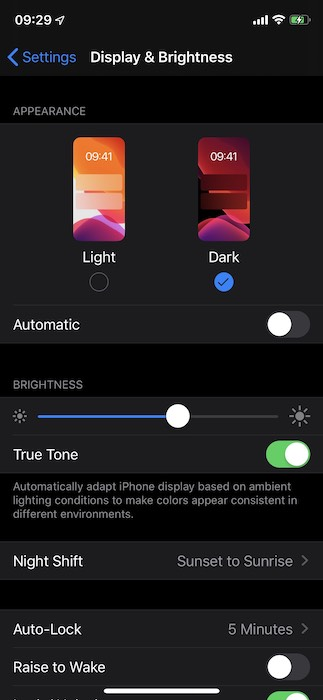
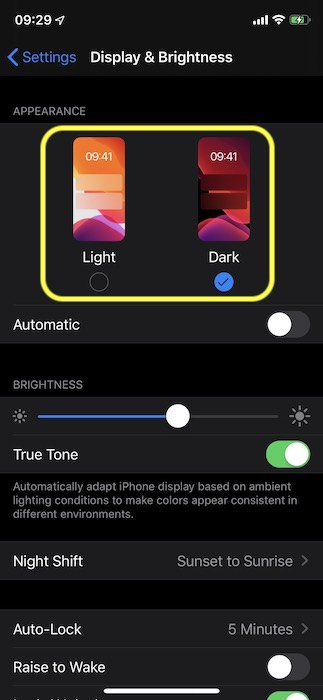
Add more best practice

Changed region(s): [[0.1238, 0.18, 0.8669, 0.45]]

diff --git a/src/site/content/en/blog/prefers-color-scheme/index.md b/src/site/content/en/blog/prefers-color-scheme/index.md
@@ -50,11 +50,12 @@ the idea of making the virtual document resemble a physical sheet of paper becam
 This is where *dark-on-white* as a design trend started,
 and this trend was carried over to the
 [early document-based web](http://info.cern.ch/hypertext/WWW/TheProject.html)
-and was also the way the first browser, [WorldWideWeb](https://en.wikipedia.org/wiki/WorldWideWeb)
+and was also the way the first ever browser,
+[WorldWideWeb](https://en.wikipedia.org/wiki/WorldWideWeb)
 (remember,
 [CSS wasn't even invented](https://en.wikipedia.org/wiki/Cascading_Style_Sheets#History) yet),
 [displayed webpages](https://commons.wikimedia.org/wiki/File:WorldWideWeb_FSF_GNU.png).
-Fun fact: the second ever browser, the
+Fun fact: the second ever browser,
 [Line Mode Browser](https://en.wikipedia.org/wiki/Line_Mode_Browser)—as a terminal-based browser—was
 green on dark.
 To the present day, web pages and web apps are typically designed with dark text
@@ -81,6 +82,8 @@ more the idea of going back to the roots of *light-on-dark* becomes popular.
 
 ## Why dark mode
 
+### Aesthetics
+
 When people get asked
 [why they like or want dark mode](https://medium.com/dev-channel/let-there-be-darkness-maybe-9facd9c3023d),
 the most popular response is that *"it's easier on the eyes,"*
@@ -91,7 +94,7 @@ explicitly write: *"The choice of whether to enable a light or dark appearance
 is an aesthetic one for most users, and might not relate to ambient lighting conditions."*
 
 {% Aside 'note' %}
-  Read up more on
+  👩🔬 Read up more on
   [user research regarding why people want dark mode and how they use it](https://medium.com/dev-channel/let-there-be-darkness-maybe-9facd9c3023d).
 {% endAside %}
 
@@ -110,7 +113,7 @@ The earliest occurrence of such an accessibility tool I could find is
 While System&nbsp;7 supported color, the default user interface was still black-and-white.
 
 {% Aside 'note' %}
-  You can actually
+  🤓 You can actually
   [experience System&nbsp;7](https://archive.org/details/mac_MacOS_7.0.1_compilation)
   live thanks to the
   [Internet Archive](https://archive.org/)
@@ -140,7 +143,9 @@ leads to an increased risk of shorter sleep duration,
 longer sleep-onset latency, and increased sleep deficiency.
 Additionally, exposure to blue light has been widely
 [reported](https://www.ncbi.nlm.nih.gov/pmc/articles/PMC4254760/)
-to be involved in the regulation of circadian rhythm and the sleep cycle,
+to be involved in the regulation of the
+[circadian rhythm](https://en.wikipedia.org/wiki/Circadian_rhythm)
+and the sleep cycle,
 and irregular light environments may lead to sleep deprivation,
 possibly affecting mood and task performance, according to
 [research by Rosenfield](https://www.college-optometrists.org/oip-resource/computer-vision-syndrome--a-k-a--digital-eye-strain.html).
@@ -154,7 +159,7 @@ as well as avoiding bright lights or irregular lights in general through dark th
 Finally, dark mode is known to save a *lot* of energy on AMOLED screens.
 Case studies by the Android team that focused on popular Google apps
 like YouTube have shown that the power savings can be up to 60%.
-The video below has more details on this.
+The video below has more details on these case studies and the power savings.
 
 <iframe width="560" height="315" src="https://www.youtube-nocookie.com/embed/N_6sPd0Jd3g?start=305"
     frameborder="0" allow="accelerometer; autoplay; encrypted-media; gyroscope; picture-in-picture"
@@ -170,7 +175,9 @@ Operating systems that support a dark mode or theme
 typically have an option to activate it somewhere in the settings.
 On macOS&nbsp;X, it's in the system preference's *General* section and called *Appearance*,
 and on Windows&nbsp;10, it's in the *Colors* section and called *Choose your color*.
-For Android&nbsp;Q, you can find it under *Display* as a *Dark Theme* toggle switch.
+For Android&nbsp;Q, you can find it under *Display* as a *Dark Theme* toggle switch,
+and on iOS&nbsp;13, you can change the appearance in the *Display &amp; Brightnesss*
+section of the settings.
 
 <figure>
   <div style="overflow-x: auto; padding-left:1rem;">
@@ -208,6 +215,7 @@ For Android&nbsp;Q, you can find it under *Display* as a *Dark Theme* toggle swi
 
 ## The `prefers-color-scheme` media query
 
+One last bit of theory before I get going.
 [Media queries](https://developer.mozilla.org/en-US/docs/Web/CSS/Media_Queries/Using_media_queries)
 allow authors to test and query values or features of the user agent or display device,
 independent of the document being rendered.
@@ -218,16 +226,17 @@ introduces so-called user preference media features, that is,
 a way for sites to detect the user's preferred way to display content.
 
 {% Aside 'note' %}
-  An established user preference media feature is `prefers-reduced-motion`
+  ☝ An established user preference media feature is `prefers-reduced-motion`
   that lets you detect the desire for less motion on a page.
   I have written about
   [`prefers-reduced-motion`](https://developers.google.com/web/updates/2019/03/prefers-reduced-motion)
   before.
 {% endAside %}
 
-The `prefers-color-scheme` media feature is used to detect
+The [`prefers-color-scheme`](https://drafts.csswg.org/mediaqueries-5/#prefers-color-scheme)
+media feature is used to detect
 if the user has requested the page to use a light or dark color theme.
-It takes the following values:
+It works with the following values:
 
 - `no-preference`:
   Indicates that the user has made no preference known to the system.
@@ -245,20 +254,25 @@ It takes the following values:
 Let's finally see how supporting dark mode looks like in practice.
 Just like with the [Highlander](https://en.wikipedia.org/wiki/Highlander_(film)),
 with dark mode, *there can be only one*: dark or light, but never both!
+Why do I mention this? Because this fact has an impact on the loading strategy.
 Please don't force users to download CSS in the critical rendering path
 that is for a mode they don't currently use.
-To optimize load speed, I have therefore split my CSS into three parts
-in order to [defer non-critical CSS](/defer-non-critical-css/):
+To optimize load speed, I have therefore split my CSS for the example app
+into three parts in order to [defer non-critical CSS](/defer-non-critical-css/):
 
 - `style.css` that contains generic styles that are used universally on the site.
 - `dark.css` that contains only the rules needed for dark mode.
 - `light.css` that contains only the rules needed for light mode.
 
-The two latter ones are loaded conditionally with a `<link media>` query.
+### Loading strategy
+
+The two latter ones, `light.css` and `dark.css`,
+are loaded conditionally with a `<link media>` query.
 Initially,
 [not all browsers will support `prefers-color-scheme`](https://caniuse.com/#feat=prefers-color-scheme),
-which I deal with dynamically by loading the default `light.css` file via `document.write`
-in a minuscule inline script.
+which I deal with dynamically by loading the default `light.css` file
+(an arbitrary choice, I could also have made the dark experience the default)
+via `document.write` in a minuscule inline script.
 
 ```html
 <!-- index.html -->
@@ -276,11 +290,13 @@ in a minuscule inline script.
   will be downloaded with `highest`, the non-matching file with `lowest`
   priority. If the browser doesn't support `prefers-color-scheme`, the media
   query is unknown and the files are downloaded with `lowest` priority (but
-  above I force `highest` for the default light experience).
+  above I already force `highest` for my default light experience).
 -->
 <link rel="stylesheet" href="/dark.css" media="(prefers-color-scheme: dark)">
 <link rel="stylesheet" href="/light.css" media="(prefers-color-scheme: no-preference), (prefers-color-scheme: light)">
 ```
+
+### Stylesheet architecture
 
 I make maximum use of [CSS variables](https://developer.mozilla.org/en-US/docs/Web/CSS/var),
 this allows my generic `style.css` to be, well, generic,
@@ -306,19 +322,11 @@ that essentially create a *dark-on-light* and a *light-on-dark* baseline theme.
 ```
 
 In my `style.css`, I then use these variables in the `body { … }` rule.
-You will also have noticed a property `color-scheme` with the space-separated value `light dark`.
-This tells the browser which color themes my app supports
-and allows it to activate special variants of the user agent stylesheet.
-This is useful to, for example, let the browser render form fields
-with a dark background and light text, adjust the scrollbars,
-or to enable a theme-aware highlight color.
-The exact details of `color-scheme` are specified in
-[CSS Color Adjustment Module Level&nbsp;1](https://drafts.csswg.org/css-color-adjust-1/).
-
-{% Aside 'note' %}
-  Read up more on
-  [what `color-scheme` actually does](https://medium.com/dev-channel/what-does-dark-modes-supported-color-schemes-actually-do-69c2eacdfa1d).
-{% endAside %}
+As they are defined on the
+[`:root` CSS pseudo-class](https://developer.mozilla.org/en-US/docs/Web/CSS/:root)—a
+selector that in HTML represents the `<html>` element
+and is identical to the selector `html`, except that its specificity is
+higher—they cascade down, which serves me for declaring global CSS variables.
 
 ```css
 /* style.css */
@@ -332,8 +340,68 @@ body {
 }
 ```
 
+In the code sample above, you will probably have noticed a property
+[`color-scheme`](https://drafts.csswg.org/css-color-adjust-1/#propdef-color-scheme)
+with the space-separated value `light dark`.
+This tells the browser which color themes my app supports
+and allows it to activate special variants of the user agent stylesheet.
+This is useful to, for example, let the browser render form fields
+with a dark background and light text, adjust the scrollbars,
+or to enable a theme-aware highlight color.
+The exact details of `color-scheme` are specified in
+[CSS Color Adjustment Module Level&nbsp;1](https://drafts.csswg.org/css-color-adjust-1/).
+
+{% Aside 'note' %}
+  🌒 Read up more on
+  [what `color-scheme` actually does](https://medium.com/dev-channel/what-does-dark-modes-supported-color-schemes-actually-do-69c2eacdfa1d).
+{% endAside %}
+
+{% Aside 'warning' %}
+  The `color-scheme` property is still [in development](https://crbug.com/925935)
+  and it might not work as advertised, full support in Chrome will come later this year.
+{% endAside %}
+
+Everything else is then just a matter of defining CSS variables
+for things that matter on my site.
+Semantically organizing styles helps a lot when working with dark mode.
+For example, rather than `--highlight-yellow`, consider calling the variable
+`--accent-color`, as "yellow" may actually not be yellow in dark mode or vice versa.
+Below is an example of some more variables that I use in my example.
+
+```css
+/* dark.css */
+:root {
+  --background-color: rgb(5, 5, 5);
+  --color: rgb(250, 250, 250);
+  --link-color: rgb(0, 188, 212);
+  --main-headline-color: rgb(233, 30, 99);
+  --accent-background-color: rgb(0, 188, 212);
+  --accent-color: rgb(5, 5, 5);
+}
+```
+
+```css
+/* light.css */
+:root {
+  --background-color: rgb(250, 250, 250);
+  --color: rgb(5, 5, 5);
+  --link-color: rgb(0, 0, 238);
+  --main-headline-color: rgb(0, 0, 192);
+  --accent-background-color: rgb(0, 0, 238);
+  --accent-color: rgb(250, 250, 250);
+}
+```
+
+### Avoid pure white
+
+A small detail you may have noticed is that I don't use pure white.
+Instead, to prevent glowing and bleeding against the surrounding dark content,
+I choose a slightly darker white, `rgb(250, 250, 250)` or similar works well.
+
+## Example
+
 In the following [Glitch](https://dark-mode-baseline.glitch.me/) embed,
-you can see a more complete example that puts the concepts from above into practice.
+you can see the complete example that puts the concepts from above into practice.
 
 <div style="height: 420px; width: 100%;">
   <iframe
@@ -350,7 +418,7 @@ the particular currently non-matching stylesheets are still loaded, but with low
 so that they never compete with resources that are needed by the site right now.
 
 {% Aside 'note' %}
-  Read up more on
+  😲 Read up more on
   [why browsers download stylesheets with non-matching media queries](https://blog.tomayac.com/2018/11/08/why-browsers-download-stylesheets-with-non-matching-media-queries-180513).
 {% endAside %}
 
@@ -379,6 +447,7 @@ My [research](https://medium.com/dev-channel/re-colorization-for-dark-mode-19e2e
 has shown that the majority of the surveyed people
 prefer slightly less vibrant and brilliant images when dark mode is active.
 I refer to this as *re-colorization*.
+
 Re-colorization can be achieved through a CSS filter on my images.
 I use a CSS selector that matches all images that don't have `.svg` in their URL,
 the idea being that I can give vector graphics (icons) a different re-colorization treatment
@@ -387,9 +456,12 @@ Note how I again use a [CSS variable](https://developer.mozilla.org/en-US/docs/W
 so I can later on flexibly change my filter.
 
 {% Aside 'note' %}
-  Read up more on
+  🎨 Read up more on
   [user research regarding re-colorization preferences with dark mode](https://medium.com/dev-channel/re-colorization-for-dark-mode-19e2e17b584b).
 {% endAside %}
+
+As re-colorization is only needed in dark mode, that is, when `dark.css` is active,
+there are no corresponding rules in `light.css`.
 
 ```css
 /* dark.css */
@@ -400,9 +472,12 @@ img:not([src*=".svg"]) {
 }
 ```
 
+### Customizing dark mode choices with JavaScript
+
 Not everyone is the same and people have different dark mode needs.
 By sticking to the re-colorization method described above,
-I can easily make the grayscale intensity a user preference that I can change via JavaScript.
+I can easily make the grayscale intensity a user preference that I can change via JavaScript,
+and by setting a value of `0%`, I can also disable re-colorization completely.
 
 ```js
 const filter = 'grayscale(70%)';
@@ -413,10 +488,10 @@ document.documentElement.style.setProperty('--image-filter', value);
 
 For vector graphics—that in my case are used as icons—I use a different re-colorization method.
 While [research](https://dl.acm.org/citation.cfm?id=2982168) has shown
-that people don't like inversion for photos, it works very well for most icons.
+that people don't like inversion for photos, it does work very well for most icons.
 Again I use CSS variables to determine the inversion amount
 in the regular and in the `:hover` state.
-Note how I only invert icons in `dark.css` but not in `light.css`, and how the `:hover` state
+Note how again I only invert icons in `dark.css` but not in `light.css`, and how the `:hover` state
 gets a different inversion intensity in the two cases to make the icon appear
 slightly darker or slightly brighter, dependent on the mode the user has selected.
 
